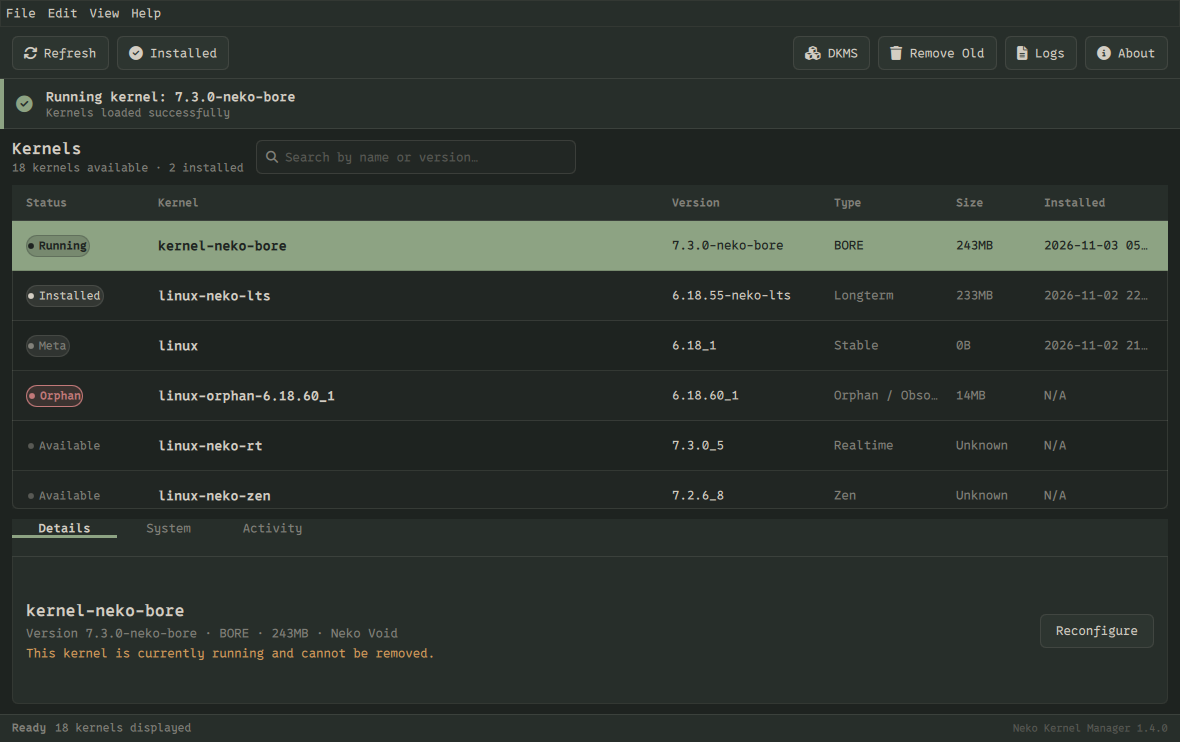
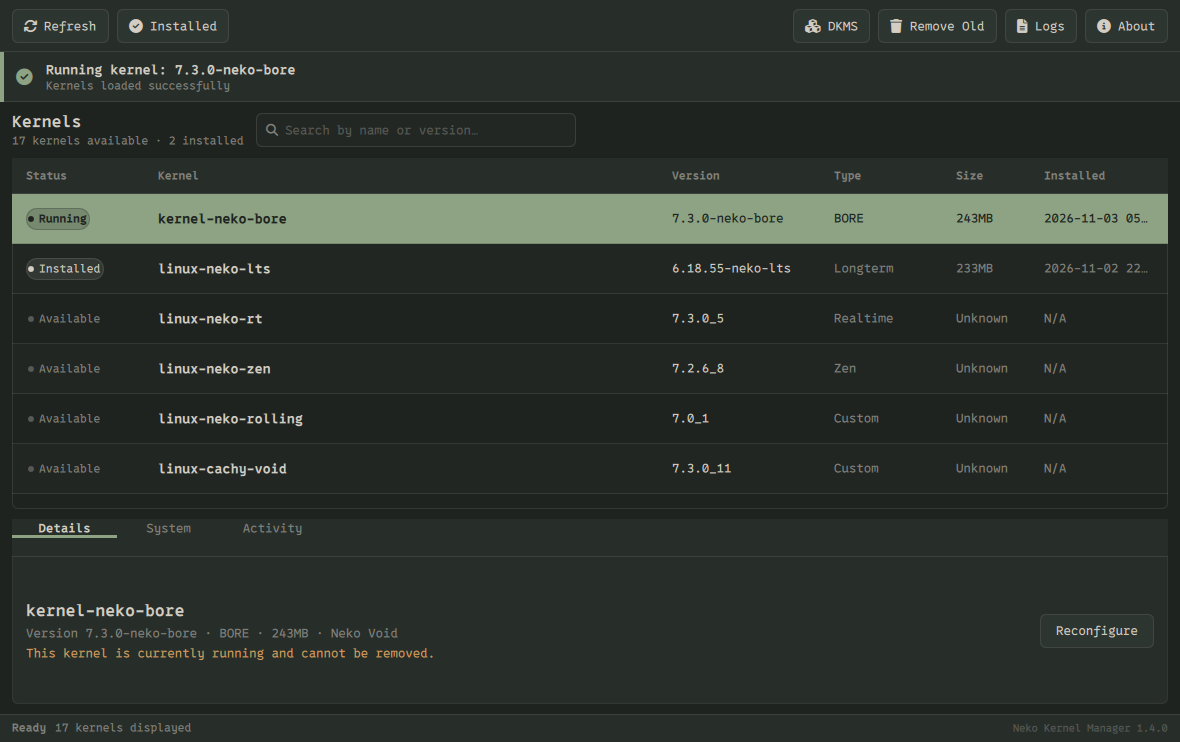
ui: remove legacy top menu bar and refresh screenshots

diff --git a/src/Main.qml b/src/Main.qml
@@ -261,69 +261,6 @@ ApplicationWindow {
         }
     }
 
-    // GTK Menu Bar
-    menuBar: MenuBar {
-        Menu {
-            title: qsTr("File")
-            MenuItem {
-                text: qsTr("Export Logs…")
-                enabled: bridge.logs.length > 0
-                onTriggered: fileDialog.open()
-            }
-            MenuSeparator { }
-            MenuItem { text: qsTr("Close"); onTriggered: window.close() }
-        }
-        Menu {
-            title: qsTr("Edit")
-            MenuItem {
-                text: qsTr("Show Installed Kernels Only")
-                checkable: true
-                checked: window.installedOnly
-                onToggled: {
-                    window.installedOnly = checked
-                    window.selectFirstVisibleKernel(true)
-                }
-            }
-            MenuItem {
-                text: qsTr("Clear Search")
-                enabled: kernelSearch.text.length > 0
-                onTriggered: kernelSearch.clear()
-            }
-        }
-        Menu {
-            title: qsTr("View")
-            MenuItem {
-                text: qsTr("Refresh Kernels")
-                enabled: !bridge.busy
-                onTriggered: window.refreshKernels()
-            }
-            MenuItem { text: qsTr("Activity Log"); onTriggered: logDialog.open() }
-        }
-        Menu {
-            title: qsTr("Help")
-            MenuItem { text: qsTr("About Neko Kernel Manager"); onTriggered: aboutDialog.open() }
-        }
-
-        delegate: MenuBarItem {
-            id: menuItem
-            contentItem: Text {
-                text: menuItem.text
-                color: themeColors.text
-                font.pixelSize: 12
-                verticalAlignment: Text.AlignVCenter
-            }
-            background: Rectangle {
-                color: menuItem.highlighted ? themeColors.hover : "transparent"
-                radius: 4
-            }
-        }
-        background: Rectangle {
-            color: themeColors.toolbar
-            border.color: themeColors.border
-            border.width: 1
-        }
-    }
-
     Shortcut {
         sequence: "Ctrl+R"
         enabled: !bridge.busy
